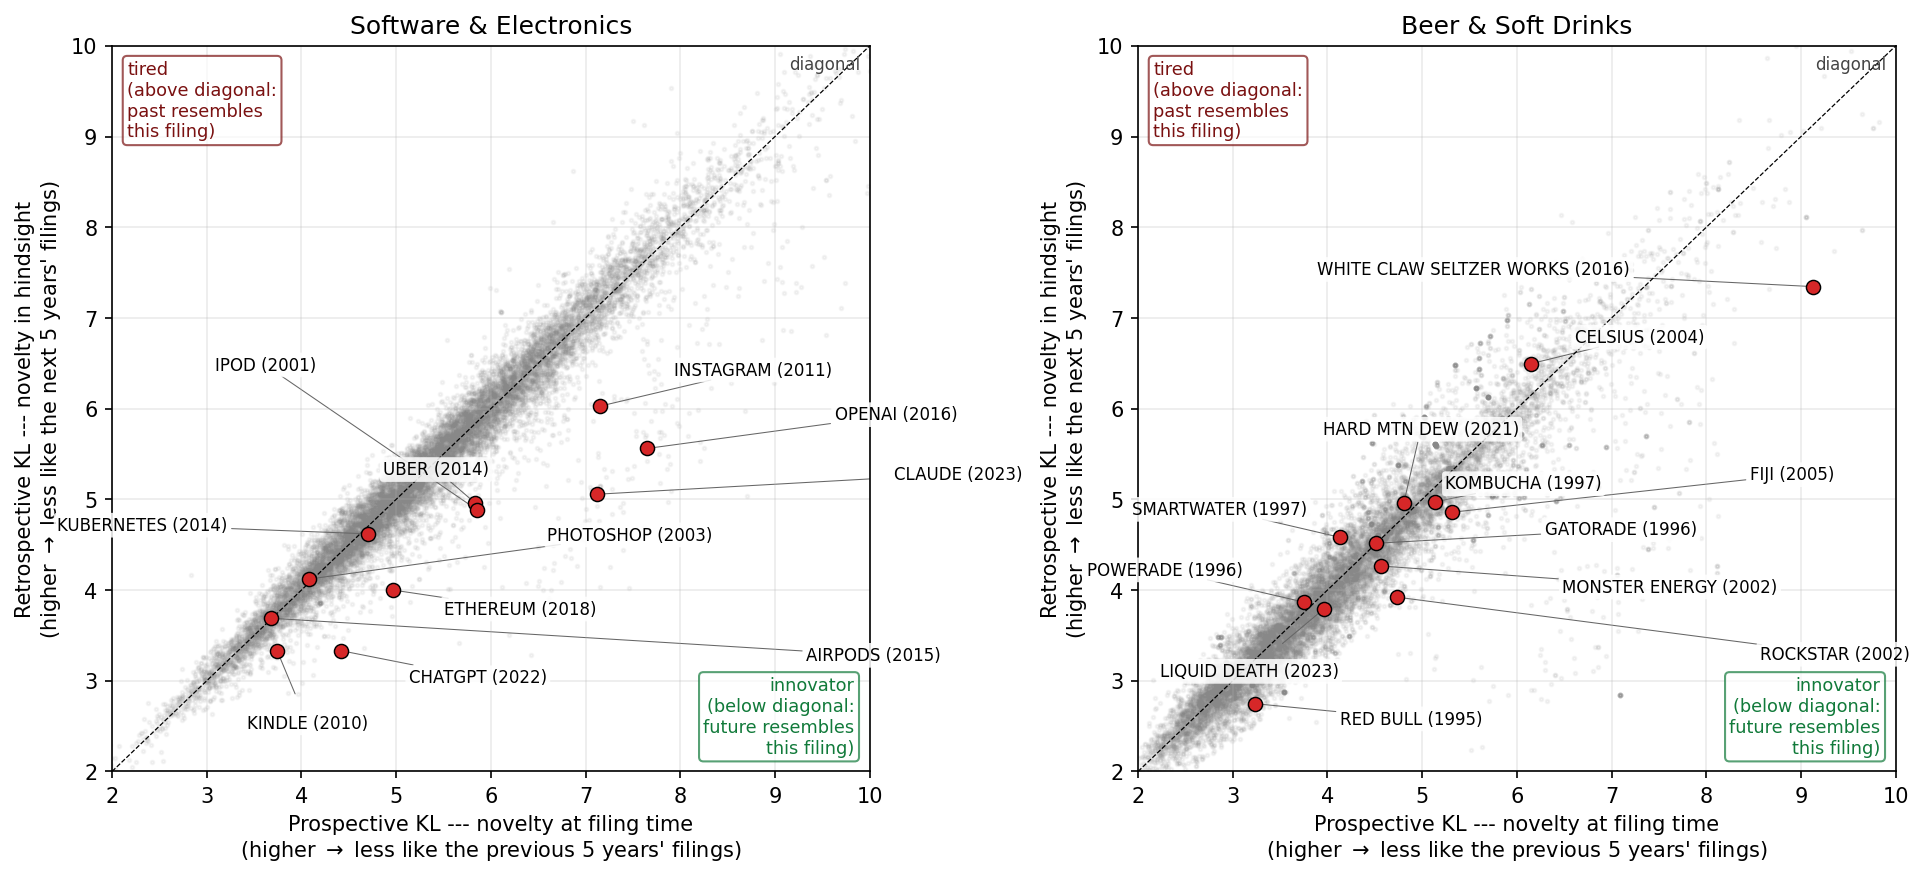
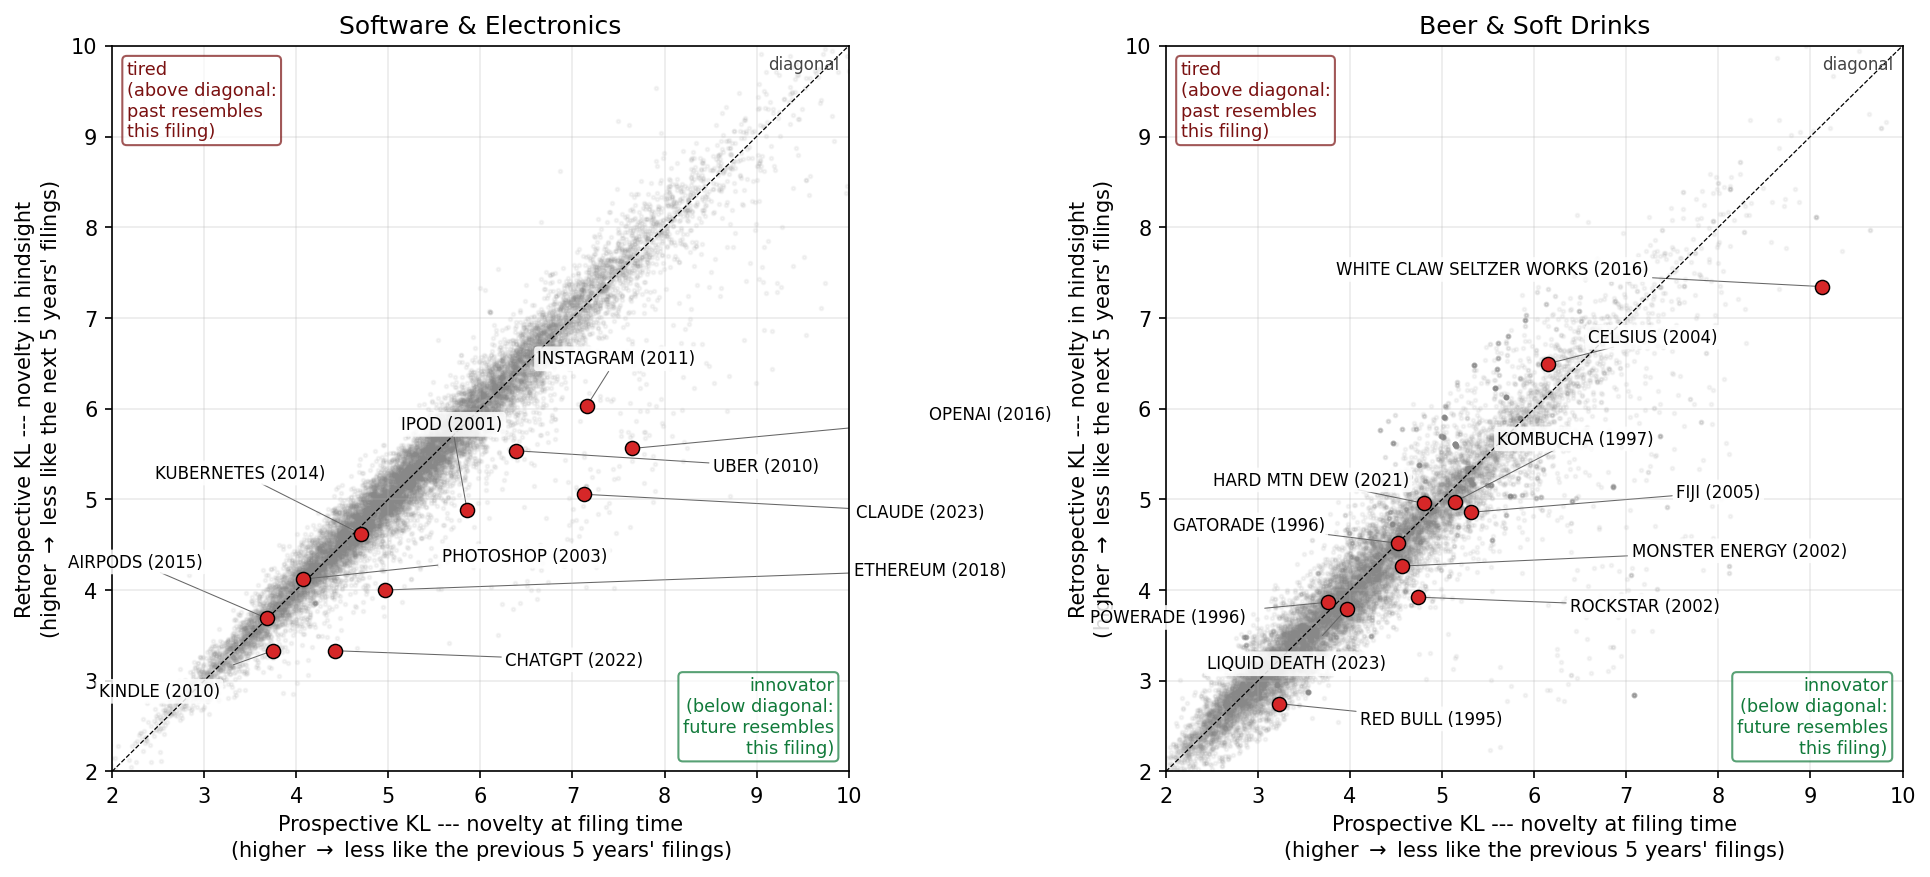
Pin Figure 1 exemplars by owner; three were plotting the wrong company
Mark text plus filing year is not a unique key, and the matcher took the
first row. Audited all 23 exemplars against owner_name:

  WINDOWS   (1995) -> Softblox Incorporated, not Microsoft    [dropped]
  CHATGPT   (2022) -> Brand Central, LLC, not OpenAI          [repinned]
  UBER      (2014) -> RYSC Corp, not Uber Technologies        [repinned to 2010]
  RED BULL  (1995) -> Robert Horky, not Red Bull GmbH         [repinned]
  SMARTWATER(1997) -> Paul Swartz, not Energy Brands          [repinned to 2000]

For CHATGPT and RED BULL the correctly-owned mark exists in the same year,
so only the tie-break was wrong. Exemplars are now keyed on (mark, year,
owner substring) and the matcher requires all three, so this class of error
cannot recur silently.

SMARTWATER now misses: the Energy Brands 2000 filing carries no forward
reference mass and is correctly excluded by the clean filter.

Also answers a question about why OPENAI (2016) is not gate-classifiable in
the survival variant. It is not that the gate has not elapsed -- that serial
was never registered at all, so it has no Section 8 gate to reach.

diff --git a/scripts/quadrant_regen.py b/scripts/quadrant_regen.py
@@ -23,22 +23,31 @@ PANELS = [
     # Examples restricted to post-burn-in filings (>= 1995), consistent
     # with the paper's fragility note on pre-1995 contamination.
     ("009", "Software & Electronics", [
-        ("OPENAI", 2016), ("CLAUDE", 2023), ("INSTAGRAM", 2011),
-        ("ETHEREUM", 2018), ("KUBERNETES", 2014), ("CHATGPT", 2022),
-        # WINDOWS (1995) was dropped: the mark text and year resolve to a
-        # third-party registration owned by Softblox Incorporated, not to
-        # Microsoft. Exemplars are matched on mark text and year only, so a
-        # common-word mark can resolve to the wrong company; anything added
-        # here should be checked against its owner_name first.
-        ("UBER", 2014), ("PHOTOSHOP", 2003),
-        ("AIRPODS", 2015), ("KINDLE", 2010), ("IPOD", 2001),
+        # (mark, filing year, required owner substring). The owner is part of
+        # the key because mark text plus year is NOT unique: several of these
+        # names have same-year filings by unrelated parties, and matching on
+        # text alone silently plotted the wrong company. WINDOWS (1995)
+        # resolved to Softblox Incorporated rather than Microsoft and has been
+        # dropped entirely; CHATGPT (2022) resolved to Brand Central LLC and
+        # UBER (2014) to RYSC Corp, both now pinned to the real owner.
+        ("OPENAI", 2016, "OPENAI"), ("CLAUDE", 2023, "ANTHROPIC"),
+        ("INSTAGRAM", 2011, "INSTAGRAM"), ("ETHEREUM", 2018, "ETHEREUM"),
+        ("KUBERNETES", 2014, "LF PROJECTS"), ("CHATGPT", 2022, "OPENAI"),
+        ("UBER", 2010, "UBER TECHNOLOGIES"), ("PHOTOSHOP", 2003, "ADOBE"),
+        ("AIRPODS", 2015, "APPLE"), ("KINDLE", 2010, "AMAZON"),
+        ("IPOD", 2001, "APPLE"),
     ]),
     ("032", "Beer & Soft Drinks", [
-        ("LIQUID DEATH", 2023), ("WHITE CLAW SELTZER WORKS", 2016),
-        ("ROCKSTAR", 2002), ("HARD MTN DEW", 2021), ("FIJI", 2005),
-        ("SMARTWATER", 1997), ("KOMBUCHA", 1997), ("POWERADE", 1996),
-        ("GATORADE", 1996), ("RED BULL", 1995), ("MONSTER ENERGY", 2002),
-        ("CELSIUS", 2004),
+        # RED BULL (1995) resolved to an individual, Robert Horky, rather than
+        # Red Bull GmbH; SMARTWATER (1997) to Paul Swartz rather than Energy
+        # Brands, whose own filing is 2000. Both are now pinned by owner.
+        ("LIQUID DEATH", 2023, "SUPPLYING DEMAND"),
+        ("WHITE CLAW SELTZER WORKS", 2016, "MARK ANTHONY"),
+        ("ROCKSTAR", 2002, "ROCKSTAR"), ("HARD MTN DEW", 2021, "PEPSICO"),
+        ("FIJI", 2005, "FIJI WATER"), ("SMARTWATER", 2000, "ENERGY BRANDS"),
+        ("KOMBUCHA", 1997, ""), ("POWERADE", 1996, "COCA-COLA"),
+        ("GATORADE", 1996, "STOKELY"), ("RED BULL", 1995, "RED BULL GMBH"),
+        ("MONSTER ENERGY", 2002, "MONSTER"), ("CELSIUS", 2004, "ELITE FX"),
     ]),
 ]
 
@@ -65,12 +74,13 @@ def main() -> int:
                 ha="right", va="top", color="#444")
 
         xs_lab, ys_lab, text_objs = [], [], []
-        for mark_q, year_q in examples:
-            hits = (sp.filter(
-                (pl.col("year") == year_q)
-                & pl.col("mark_identification").str.to_uppercase().str.contains(
-                    f"^{mark_q}$|^{mark_q} ")
-            ).sort("dkl", descending=True).head(1))
+        for mark_q, year_q, owner_q in examples:
+            cond = ((pl.col("year") == year_q)
+                    & pl.col("mark_identification").str.to_uppercase().str.contains(
+                        f"^{mark_q}$|^{mark_q} "))
+            if owner_q:
+                cond = cond & pl.col("owner_name").str.to_uppercase().str.contains(owner_q)
+            hits = sp.filter(cond).sort("dkl", descending=True).head(1)
             if hits.is_empty():
                 print(f"  miss [{cls}]: {mark_q} ({year_q})", file=sys.stderr)
                 continue
